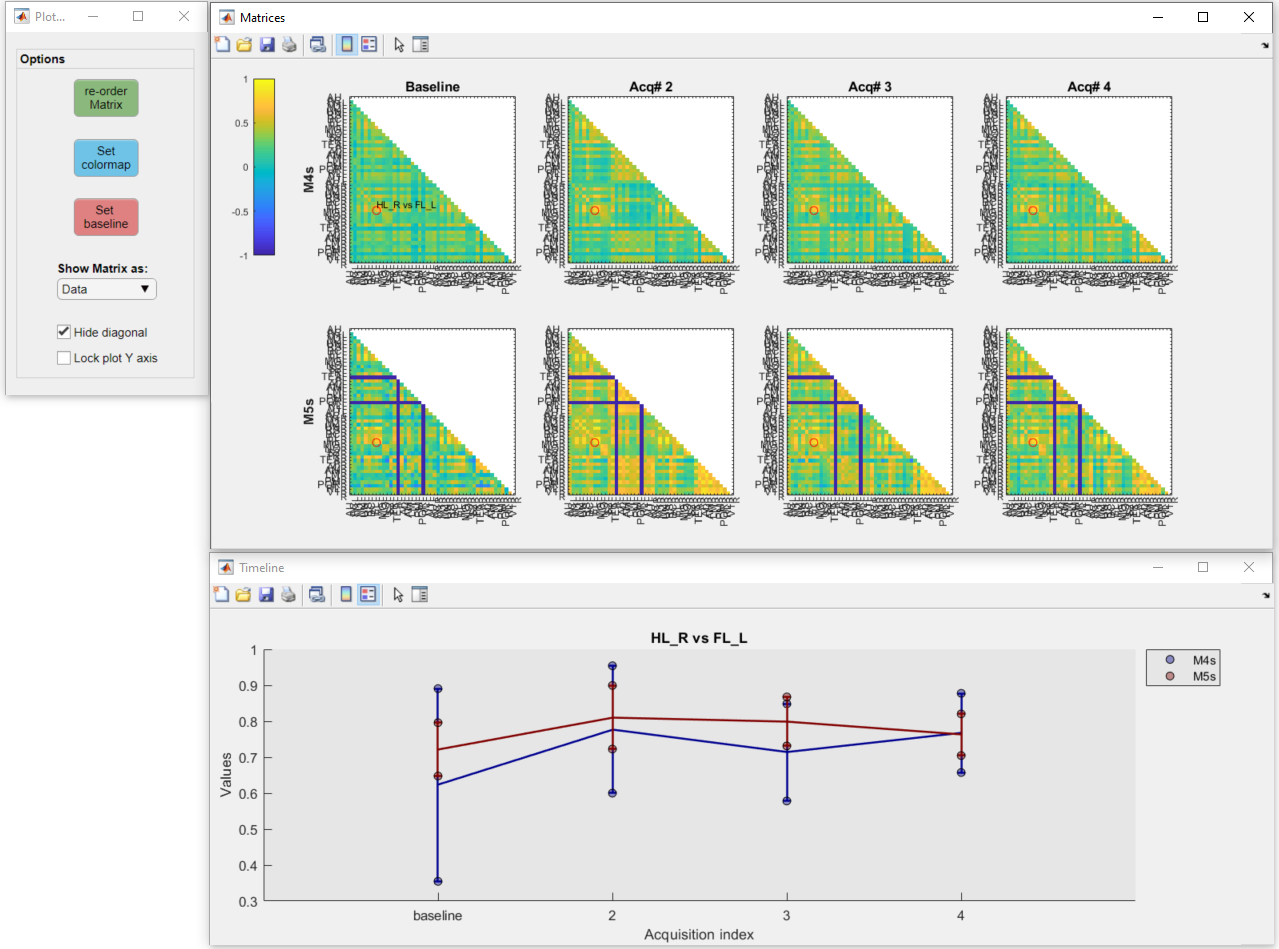
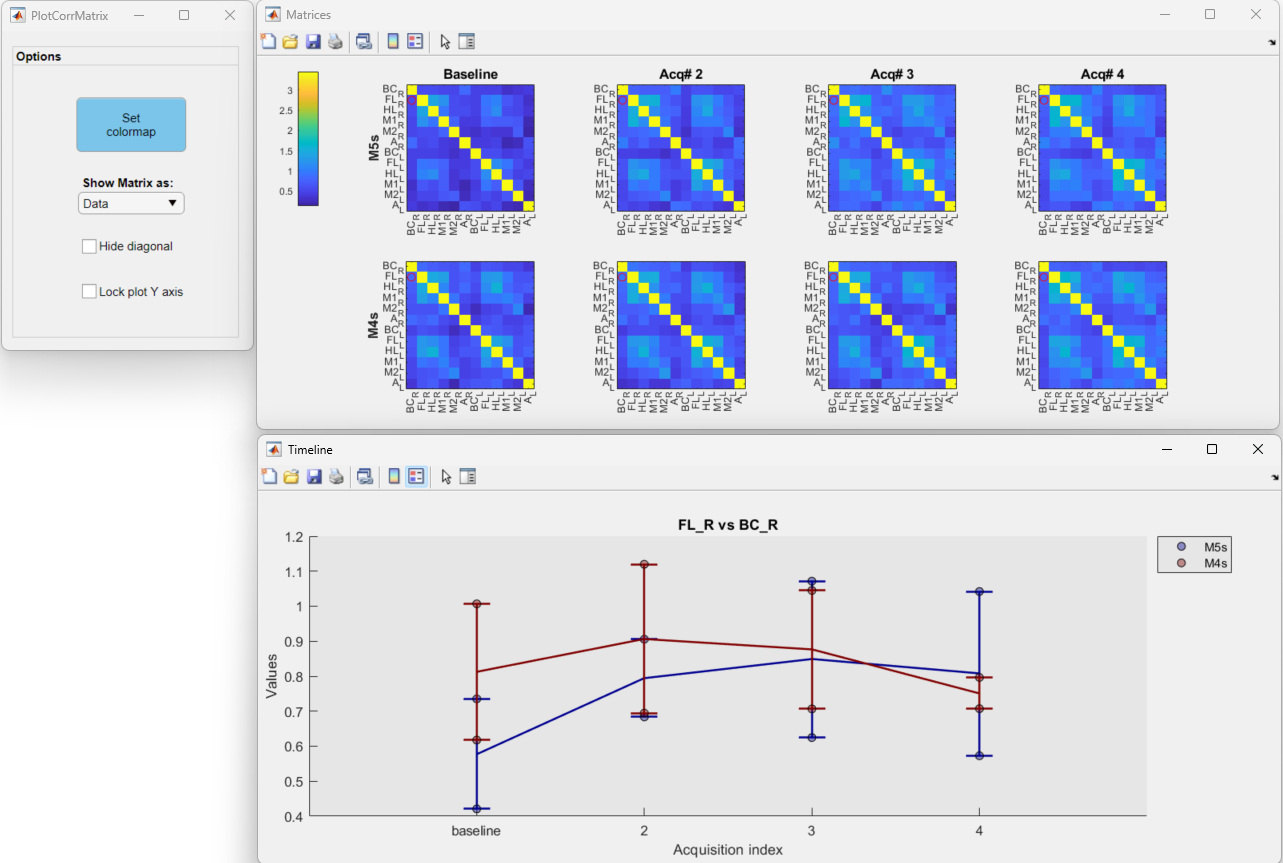
docs : finished documentation update.

diff --git a/docs/documentation/tutorials/tt_viz_group_data.html b/docs/documentation/tutorials/tt_viz_group_data.html
@@ -45,54 +45,48 @@
     </p>
     <img src="../assets/img/tt_viz_data_file_selection_in_main_gui.png" alt="tt_viz_data_file_selection_in_main_gui" width="660">
     <p>
-      4. Once the <samp>.mat</samp> file is selected, a list of ROI names will appear on the <i>Select observation(s)</i> list box. Highlight the ROIs that you want to visualize and click on the <i>Select</i> button. Here, we will select the left and right primary visual areas (V1_L and V1_R):
+      4. Click on the <b>Select</b> button to load the data.
     </p>
-    <img src="../assets/img/tt_viz_data_obs_selection_in_main_gui.png" alt="tt_viz_data_obs_selection_in_main_gui" width="660">
+    <img src="../assets/img/tt_viz_data_obs_selection_btn_pressed.png" alt="tt_viz_data_obs_selection_btn_pressed" width="660" >
     <p>
-      Notice in the image above that the content of the <i>Apps & tools</i> panel is now visible. Here, we will use the <i>Line/Box plots</i> tool to visualize the selected data. For more information on this and other tools from this panel, please refer to the <i>Analysis</i> section of the umIToolbox <a href="../userDocs/umIToolbox-Analysis.html">documentation</a>.
+      5. Now the <b>Apps & tools</b> panel is visible. Here, you can use the different tools in the <b>Utilities</b> panel to save, export or edit the loaded data. For more information on each tool, please refer to the <a href="../userDocs/umIToolbox-Analysis.html">Analysis tab</a> documentation.
     </p>
+    <p>
+      6. In this example, we will visualize  the visual response amplitudes of each observation (i.e. ROIs) by clicking on the <b>Line/Box plots</b> button. This app is dedicated to the visualization of scalar (i.e. single value) or time-series (1 x N frames) datasets. Here is a snapshot of the app:
+    </p>    
+    
     <p>
       5. Finally, click on the <i>Line/Box plots</i> to open the tool and explore your data!
     </p>
     <img src="../assets/img/tt_viz_data_line_box_plot_interface.png" alt="tt_viz_data_line_box_plot_interface" width="900">
     <p>
-      The image above shows the interface of the plotting tool. It consists of a main window (left) containing options to set several axis parameters, a main plot window (center) showing the selected ROI and one or more summary figures (right) containing the plots of all ROIs.
+      The image above shows the interface of the plotting tool. It consists of a main window (left) containing options to set several axis parameters, a main plot window (center) showing the selected ROI and one or more summary figures (right) containing the plots of all ROIs. Click <a href="../userDocs/lineBox-plot_tool.html">here</a> to learn more about the <b>Line/Box plot</b> app.
     </p>
     <h3 id="plot-corr-mat">Plot correlation matrices</h3>
     <hr>
     <p>
-      In the previous section, we showed how to observe single values from ROIs. Here, we show how to visualize averaged functional connectivity data. Here is the data processing workflow for the resting state experiments:
+      In the previous section, we showed how to observe single values (scalar) from ROIs across acquisitions. Here, we show how to visualize averaged functional connectivity data. Here is the data processing workflow for the resting state experiments:
     </p>
     <img src="../assets/img/tt_viz_spcm_data_processing_workflow.png" alt="tt_viz_spcm_data_processing_workflow" width="660">
     <p>
-      1. As the steps 1 and 2 of the previous section, open the main GUI and group the resting state recordings:
+      1. As the steps 1 to 3 of the previous section, open the main GUI, group the resting state recordings and select the file containing the data. Here, we will select the file <samp>corrMatrix_avg_vs_avg</samp> which contains the correlation values between the averaged correlation values of all pixels inside each ROI:
     </p>
     <img src="../assets/img/tt_viz_data_grouped_data_in_main_gui2.png" alt="tt_viz_data_grouped_data_in_main_gui2" width="660">
     <p>
-      2. Highlight all recordings and select the file containing the correlation matrices (i.e. <samp>corrMatrix</samp>):
+      2. Click on the <b>Select</b> button to load the data:
     </p>
-    <img src="../assets/img/tt_viz_data_file_selection_in_main_gui2.png" alt="tt_viz_data_file_selection_in_main_gui2" width="660">
+    <img src="../assets/img/tt_viz_data_selection_btn_pressed2.png" alt="tt_viz_data_selection_btn_pressed2" width="660">
     <p>
-      3. Now, select the ROIs and, in the <i>Apps & tools</i> panel, click on the <i>Plot Correlation Matrix</i> button. For more information on this app, click <a href="../userDocs/correlation_matrix_plot_tool.html">here</a>.
+      3. Now, we will create a subset of observations (ROIs) to visualize as the correlation matrix and regroup the ROIs as left and right hemispheres. To do so, we will use the <b>Change lists</b> utility:
     </p>
+    <img src="../assets/gifs/tt_viz_obs_subsetting_and_rearrangement.gif" alt="tt_viz_obs_subsetting_and_rearrangement" width="680">
     <p>
-      4. Here is a screenshot of the correlation matrix plotting app:
+      4. Launch the <b>Plot Correlation Matrix</b> app. Here is a screenshot of the correlation matrix plotting app:
     </p>
     <img src="../assets/img/plotCorrMatrix_interface.png" alt="plotCorrMatrix_interface" width="900">
     <p>
-      You can click on any region of a correlation matrix (top) to show the temporal profile (bottom) of the correlation between pairs of ROIs.
+      You can click on any region of a correlation matrix (top) to show the temporal profile (bottom) of the correlation between pairs of ROIs. Click <a href="../userDocs/correlation_matrix_plot_tool.html"">here</a> to learn more about the <b>Plot Correlation Matrix</b> app.
     </p>
-
-
-
-
-
-
-
-
-
-
-
-
+    <hr>
   </body>
 </html>

diff --git a/docs/documentation/userDocs/correlation_matrix_plot_tool.html b/docs/documentation/userDocs/correlation_matrix_plot_tool.html
@@ -25,7 +25,7 @@
     <p>
       To use the tool, first, select the <b>recordings</b>, <b>files</b> and <b>ROIs</b> to be displayed. Then, launch the tool by clicking <i>Plot Correlation Matrix</i> button in the Apps & tools panel.
     </p>
-    <h4 id="limitations">Limitations</h4>
+    <h4 id="input-data">Input data</h4>
     <p>
       This tool accepts only 2D numerical matrices as input. As for longitudinal datasets, all individuals must have the same number of acquisitions.
     </p>
@@ -39,31 +39,17 @@
       <i>Main components of the Correlation matrix plot tool. (1) Plot options window: contains several options to reorganize and plot the correlation matrices.(2) Matrix window: figure containing the average correlation matrices separated by group (rows) and acquisition (columns).(3) Timeline window: plot of the selected pair of observations in the matrix (red circle in Matrix window)</i>
     </p>
     <h4 id="1-plot-options">1. Plot options</h4>
-    <ul>
-      <li><b><i>re-order Matrix</i></b>: click here to reorganize the rows and columns from the correlation matrices.
-        <div class="infonote">
-          <p><strong>Note</strong><br>
-            For ROIs created using the Mouse Allen Brain preset in <samp>ROImanager</samp> app, the areas will be organized by hemisphere and functional modality. Otherwise, by default the app will plot the data in alphabetical order.
-          </p>
-        </div>
+    <ul>      
+      <li><b><i>Set colormap</i></b>: click here to change the matrix colormap and the color scale</li>      
+      <li><b><i>Show matrix as:</i></b> Drop down menu with the following options to display the correlation matrices:
+        <ul>
+          <li><b><i>Data</i></b>: (default) shows the average correlation values of each matrix</li>
+          <li><b><i>Diff. from baseline</i></b>: shows the difference of the correlation values from the baseline acquisition</li>
+          <li><b><i>Diff. from previous</i></b>: shows the difference from the previous acquisition</li>
+        </ul>
       </li>
-      <li><b><i>Set colormap</i></b>: click here to change the matrix colormap and the color scale</li>
-      <li><b><i>Set baseline</i></b>: click here to merge two or more aquisitions as a baseline acquisitions.
-        <div class="infonote">
-          <p><strong>Note</strong><br>
-            By default, the first acquisition is considered as "baseline".
-          </p>
-        </div>
-       </li>
-       <li><b><i>Show matrix as:</i></b> Drop down menu with the following options to display the correlation matrices:
-         <ul>
-           <li><b><i>Data</i></b>: (default) shows the average correlation values of each matrix</li>
-           <li><b><i>Diff. from baseline</i></b>: shows the difference of the correlation values from the baseline acquisition</li>
-           <li><b><i>Diff. from previous</i></b>: shows the difference from the previous acquisition</li>
-         </ul>
-       </li>
-       <li><b><i>Hide diagonal</i></b>: shows only the bottom half of the matrix</li>
-       <li><b><i>Lock plot Y axis</i></b>: set a fixed Y axis scale in the timeline window</li>
+      <li><b><i>Hide diagonal</i></b>: shows only the bottom half of the matrix</li>
+      <li><b><i>Lock plot Y axis</i></b>: set a fixed Y axis scale in the timeline window</li>
     </ul>
   <h4 id="2-matrix-window">2. Matrix window</h4>
   <p>
@@ -71,6 +57,7 @@
   </p>
   <p>Click on one quadrant of the matrix to upload the plot in the timeline window (3).</p>
   <h4 id="3-timeline-window">3. Timeline window</h4>
-  <p>This figure shows a scatter plot with the correlation values of individual recordings overlayed with a line plot that shows the mean +- the standard error of the mean (SEM)</p>
+  <p>This figure shows a scatter plot with the correlation values of individual recordings overlayed with a line plot that shows the group <b>average</b> &pm; the <b>standard error of the mean (SEM)</b>.</p>
+  <hr>
   </body>
 </html>
